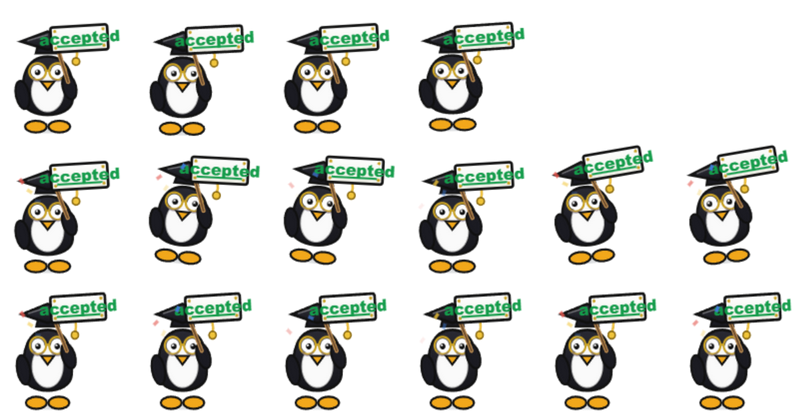
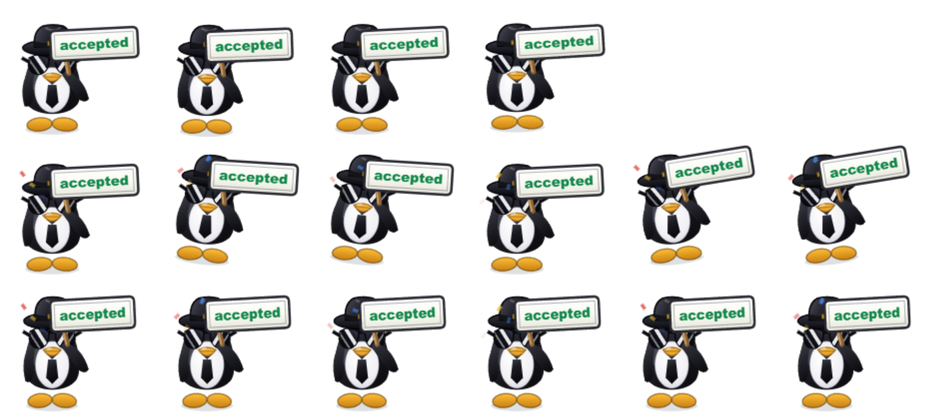
企鹅照参考图重画：黑礼帽 + 大墨镜 + 黑领带，伞换成 accepted 牌子
按用户给的参考图改：
- 博士帽换成黑色礼帽（帽檐 + 帽冠 + 帽带 + 金扣）
- 大墨镜（近黑镜片 + 两道强反光 + 镜腿）
- 白肚上一条黑领带
- 手里的伞换成大牌子

牌子文字一定在牌内：不再写死尺寸，改成先用 measureText 量出
「accepted」实际宽度，再反推牌子的宽高和内边距。

画风往写实靠：去掉粗黑描边，改用多段渐变做体积
（黑背、白肚、橙嘴橙脚、帽子都是渐变 + 高光），并加背部高光。

过程中一个教训：为了让宽内容不被探测格裁掉，我把探测格从 240 调到
300/360，结果探测窗口变大到 1800/2160px——超出屏幕被系统压缩，
所有形象的包围盒全量错。改回 240、改从「把牌子画紧凑」入手解决。

diff --git a/build/make-skins.js b/build/make-skins.js
@@ -16,7 +16,7 @@ const fs = require('fs');
 
 const root = path.join(__dirname, '..');
 const TAU = Math.PI * 2;
-const PROBE = 240;               // 探测格尺寸
+const PROBE = 240;
 const FH = 140;                  // 成品单帧高度（固定）
 const sleep = (ms) => new Promise(r => setTimeout(r, ms));
 app.on('window-all-closed', () => { });
@@ -1259,150 +1259,214 @@ function drawPsyduck(ctx, q, p, kind) {
 
 /* ============================================================ ⑩ 学术企鹅 */
 function drawPenguin(ctx, q, p, kind) {
-  const LINE = '#111111';
+  const INK = '#0E0E12';
   const s1 = Math.sin(p * TAU);
-  const cheer = kind === 'cheer' ? 1 : kind === 'dance' ? 0.6 : 0.25;
-  shadow(ctx, 50, 28);
+  const lift = q.arm * 12;
+  shadow(ctx, 54, 32);
 
-  /* 橙脚 */
+  /* ---- 橙脚（带渐变，别是纯色块） ---- */
   [-1, 1].forEach(function (sg) {
-    ctx.fillStyle = '#F2A81B';
-    ctx.beginPath(); ctx.ellipse(sg * 14, 48, 13, 7, 0, 0, TAU); ctx.fill();
-    ctx.lineWidth = 2.6; ctx.strokeStyle = LINE; ctx.stroke();
+    const fg = ctx.createLinearGradient(0, 42, 0, 56);
+    fg.addColorStop(0, '#F7B733'); fg.addColorStop(1, '#C97F12');
+    ctx.fillStyle = fg;
+    ctx.beginPath(); ctx.ellipse(sg * 15, 48, 15, 8, sg * 0.1, 0, TAU); ctx.fill();
+    ctx.lineWidth = 1.6; ctx.strokeStyle = 'rgba(90,55,5,.55)'; ctx.stroke();
   });
 
-  /* 身体：黑背 */
-  const bg = ctx.createLinearGradient(0, -36, 0, 42);
-  bg.addColorStop(0, '#2A2A33'); bg.addColorStop(1, '#141419');
+  /* ---- 身体：黑背。用多段渐变做出体积，而不是一块死黑 ---- */
+  const bg = ctx.createLinearGradient(-30, -40, 30, 46);
+  bg.addColorStop(0, '#4A4A57');
+  bg.addColorStop(0.28, '#26262F');
+  bg.addColorStop(0.62, '#141419');
+  bg.addColorStop(1, '#08080B');
   ctx.fillStyle = bg;
   ctx.beginPath();
-  ctx.moveTo(0, -36);
-  ctx.bezierCurveTo(26, -36, 32, -10, 30, 16);
-  ctx.bezierCurveTo(28, 40, -28, 40, -30, 16);
-  ctx.bezierCurveTo(-32, -10, -26, -36, 0, -36);
+  ctx.moveTo(0, -40);
+  ctx.bezierCurveTo(28, -40, 35, -12, 33, 16);
+  ctx.bezierCurveTo(31, 42, -31, 42, -33, 16);
+  ctx.bezierCurveTo(-35, -12, -28, -40, 0, -40);
   ctx.closePath(); ctx.fill();
-  ctx.lineWidth = 3; ctx.strokeStyle = LINE; ctx.stroke();
 
-  /* 白肚子 */
-  ctx.fillStyle = '#FAFAFA';
-  ctx.beginPath(); ctx.ellipse(0, 6, 20, 25, 0, 0, TAU); ctx.fill();
-  ctx.lineWidth = 2.2; ctx.strokeStyle = 'rgba(17,17,17,.35)'; ctx.stroke();
+  /* 背部高光 */
+  ctx.globalAlpha = 0.35;
+  ctx.fillStyle = '#8A8A9C';
+  ctx.beginPath(); ctx.ellipse(-17, -14, 7, 22, 0.18, 0, TAU); ctx.fill();
+  ctx.globalAlpha = 1;
 
-  /* 圆框眼镜（学术感） */
-  ctx.strokeStyle = '#C9A227'; ctx.lineWidth = 2.6;
-  ctx.beginPath(); ctx.arc(-12, -18, 10, 0, TAU); ctx.stroke();
-  ctx.beginPath(); ctx.arc(12, -18, 10, 0, TAU); ctx.stroke();
-  ctx.beginPath(); ctx.moveTo(-2, -19); ctx.lineTo(2, -19); ctx.stroke();
+  /* ---- 白肚子：边缘压暗，中间提亮 ---- */
+  const wg = ctx.createRadialGradient(-6, -4, 3, 0, 8, 34);
+  wg.addColorStop(0, '#FFFFFF');
+  wg.addColorStop(0.62, '#F2F2F6');
+  wg.addColorStop(1, '#C9C9D4');
+  ctx.fillStyle = wg;
+  ctx.beginPath(); ctx.ellipse(0, 7, 21, 27, 0, 0, TAU); ctx.fill();
+  ctx.lineWidth = 1.4; ctx.strokeStyle = 'rgba(60,60,75,.35)'; ctx.stroke();
 
-  /* 眼睛：熬夜学术眼 */
-  ctx.fillStyle = '#FFFFFF';
-  ctx.beginPath(); ctx.arc(-12, -18, 8, 0, TAU); ctx.fill();
-  ctx.beginPath(); ctx.arc(12, -18, 8, 0, TAU); ctx.fill();
-  ctx.fillStyle = '#111111';
-  ctx.beginPath(); ctx.arc(-12 + s1 * 1.4, -17, 3.4, 0, TAU); ctx.fill();
-  ctx.beginPath(); ctx.arc(12 + s1 * 1.4, -17, 3.4, 0, TAU); ctx.fill();
-  ctx.fillStyle = 'rgba(255,255,255,.9)';
-  ctx.beginPath(); ctx.arc(-13 + s1 * 1.4, -18.4, 1.2, 0, TAU); ctx.fill();
-  ctx.beginPath(); ctx.arc(11 + s1 * 1.4, -18.4, 1.2, 0, TAU); ctx.fill();
-  /* 黑眼圈（熬夜赶稿） */
-  ctx.strokeStyle = 'rgba(120,110,140,.55)'; ctx.lineWidth = 2.4;
-  ctx.beginPath(); ctx.arc(-12, -14, 7.4, 0.15 * Math.PI, 0.85 * Math.PI); ctx.stroke();
-  ctx.beginPath(); ctx.arc(12, -14, 7.4, 0.15 * Math.PI, 0.85 * Math.PI); ctx.stroke();
-
-  /* 橙嘴 */
-  ctx.fillStyle = '#F2A81B';
-  ctx.beginPath();
-  ctx.moveTo(-8, -6); ctx.lineTo(8, -6); ctx.lineTo(0, 4);
+  /* ---- 黑领带 ---- */
+  const tg = ctx.createLinearGradient(-6, -6, 6, 26);
+  tg.addColorStop(0, '#4A4A57'); tg.addColorStop(0.5, '#1A1A22'); tg.addColorStop(1, '#08080B');
+  ctx.fillStyle = tg;
+  ctx.beginPath();                       // 结
+  ctx.moveTo(0, -10);
+  ctx.lineTo(-6.5, -5); ctx.lineTo(0, 1); ctx.lineTo(6.5, -5);
   ctx.closePath(); ctx.fill();
-  ctx.lineWidth = 2.4; ctx.strokeStyle = LINE; ctx.stroke();
-
-  /* 博士帽 */
-  ctx.fillStyle = '#1B1B22';
-  ctx.beginPath();                       // 帽筒
-  ctx.moveTo(-14, -40); ctx.lineTo(14, -40);
-  ctx.lineTo(11, -52); ctx.lineTo(-11, -52);
+  ctx.beginPath();                       // 带
+  ctx.moveTo(-5, 1); ctx.lineTo(5, 1);
+  ctx.lineTo(7.5, 22); ctx.lineTo(0, 29); ctx.lineTo(-7.5, 22);
   ctx.closePath(); ctx.fill();
-  ctx.lineWidth = 2.8; ctx.strokeStyle = LINE; ctx.stroke();
-  ctx.beginPath();                       // 方板
-  ctx.moveTo(0, -66); ctx.lineTo(32, -54);
-  ctx.lineTo(0, -44); ctx.lineTo(-32, -54);
-  ctx.closePath();
-  const mg = ctx.createLinearGradient(0, -66, 0, -44);
-  mg.addColorStop(0, '#33333D'); mg.addColorStop(1, '#16161B');
-  ctx.fillStyle = mg; ctx.fill();
-  ctx.lineWidth = 3; ctx.strokeStyle = LINE; ctx.stroke();
-  ctx.strokeStyle = 'rgba(255,255,255,.35)'; ctx.lineWidth = 1.6;
-  ctx.beginPath(); ctx.moveTo(-24, -55); ctx.lineTo(0, -62); ctx.stroke();
-  /* 流苏 */
-  ctx.strokeStyle = '#E5B93C'; ctx.lineWidth = 3; ctx.lineCap = 'round';
+  ctx.lineWidth = 1.2; ctx.strokeStyle = 'rgba(0,0,0,.5)';
+  ctx.beginPath(); ctx.moveTo(-6, -5); ctx.lineTo(6, -5); ctx.stroke();
+
+  /* ---- 左翅：贴着身侧下压 ---- */
+  const lg = ctx.createLinearGradient(-38, -10, -22, 26);
+  lg.addColorStop(0, '#33333D'); lg.addColorStop(1, '#0B0B0F');
+  ctx.fillStyle = lg;
   ctx.beginPath();
-  ctx.moveTo(30, -54);
-  ctx.quadraticCurveTo(38 + s1 * 3, -46, 34 + s1 * 4, -32);
-  ctx.stroke();
-  ctx.fillStyle = '#F0C43A';
-  ctx.beginPath(); ctx.arc(34 + s1 * 4, -30, 4.4, 0, TAU); ctx.fill();
-  ctx.lineWidth = 2; ctx.strokeStyle = '#8A6A12'; ctx.stroke();
+  ctx.moveTo(-27, -18);
+  ctx.quadraticCurveTo(-40, 2, -33, 26);
+  ctx.quadraticCurveTo(-26, 30, -23, 18);
+  ctx.quadraticCurveTo(-24, -2, -20, -16);
+  ctx.closePath(); ctx.fill();
 
-  /* 左翅：垂着 */
-  ctx.fillStyle = '#1B1B22';
-  ctx.beginPath(); ctx.ellipse(-30, 10, 8, 17, -0.2, 0, TAU); ctx.fill();
-  ctx.lineWidth = 2.6; ctx.strokeStyle = LINE; ctx.stroke();
-
-  /* 右翅：举起牌子（越兴奋举越高） */
-  const lift = q.arm * 10;
-  ctx.save();
-  ctx.translate(26, 4 - lift);
-  ctx.rotate(-0.5 - q.arm * 0.15);
-  ctx.fillStyle = '#1B1B22';
-  ctx.beginPath(); ctx.ellipse(0, 0, 8, 15, 0.3, 0, TAU); ctx.fill();
-  ctx.lineWidth = 2.6; ctx.strokeStyle = LINE; ctx.stroke();
-  /* 牌杆 */
-  ctx.strokeStyle = '#B98B52'; ctx.lineWidth = 5; ctx.lineCap = 'round';
-  ctx.beginPath(); ctx.moveTo(2, -6); ctx.lineTo(12, -46); ctx.stroke();
-  ctx.lineWidth = 2; ctx.strokeStyle = '#6B4A2A';
-  ctx.beginPath(); ctx.moveTo(2, -6); ctx.lineTo(12, -46); ctx.stroke();
-  ctx.restore();
-
-  /* ---- 大牌子 ---- */
-  ctx.save();
-  ctx.translate(38, -56 - lift * 0.5);
-  ctx.rotate(-0.06);
-  const BW = 34, BH = 15;                 // 半宽 / 半高
+  /* ---- 嘴：橙色，上下两片 ---- */
+  const bkg = ctx.createLinearGradient(0, -16, 0, 4);
+  bkg.addColorStop(0, '#FBC24A'); bkg.addColorStop(1, '#D98A12');
+  ctx.fillStyle = bkg;
   ctx.beginPath();
-  ctx.moveTo(-BW + 3, -BH);
-  ctx.lineTo(BW - 3, -BH); ctx.quadraticCurveTo(BW, -BH, BW, -BH + 3);
-  ctx.lineTo(BW, BH - 3); ctx.quadraticCurveTo(BW, BH, BW - 3, BH);
-  ctx.lineTo(-BW + 3, BH); ctx.quadraticCurveTo(-BW, BH, -BW, BH - 3);
-  ctx.lineTo(-BW, -BH + 3); ctx.quadraticCurveTo(-BW, -BH, -BW + 3, -BH);
-  ctx.closePath();
-  const sg2 = ctx.createLinearGradient(0, -BH, 0, BH);
-  sg2.addColorStop(0, '#FFFFFF'); sg2.addColorStop(1, '#EFEFE6');
-  ctx.fillStyle = sg2; ctx.fill();
-  ctx.lineWidth = 3.2; ctx.strokeStyle = LINE; ctx.stroke();
-  /* 牌子四角的小图钉 */
-  ctx.fillStyle = '#C9A227';
-  [[-BW + 5, -BH + 5], [BW - 5, -BH + 5], [-BW + 5, BH - 5], [BW - 5, BH - 5]].forEach(function (k) {
-    ctx.beginPath(); ctx.arc(k[0], k[1], 1.8, 0, TAU); ctx.fill();
+  ctx.moveTo(-11, -10);
+  ctx.quadraticCurveTo(0, -16, 11, -10);
+  ctx.quadraticCurveTo(0, 4, -11, -10);
+  ctx.closePath(); ctx.fill();
+  ctx.lineWidth = 1.6; ctx.strokeStyle = 'rgba(120,70,5,.6)'; ctx.stroke();
+  ctx.beginPath(); ctx.moveTo(-9, -8.5); ctx.lineTo(9, -8.5);
+  ctx.lineWidth = 1.2; ctx.strokeStyle = 'rgba(120,70,5,.5)'; ctx.stroke();
+  ctx.fillStyle = 'rgba(255,255,255,.45)';
+  ctx.beginPath(); ctx.ellipse(-4, -11.5, 3.4, 1.4, -0.2, 0, TAU); ctx.fill();
+
+  /* ---- 大墨镜：镜片近黑，靠两道强反光撑住 ---- */
+  [-1, 1].forEach(function (sg) {
+    ctx.beginPath();
+    ctx.moveTo(sg * 27, -31);
+    ctx.quadraticCurveTo(sg * 14, -38, sg * 4, -31);
+    ctx.quadraticCurveTo(sg * 3, -16, sg * 14, -12);
+    ctx.quadraticCurveTo(sg * 26, -11, sg * 28, -22);
+    ctx.closePath();
+    const lg2 = ctx.createLinearGradient(sg * 4, -36, sg * 28, -12);
+    lg2.addColorStop(0, '#4E4E5C'); lg2.addColorStop(0.4, '#141420'); lg2.addColorStop(1, '#05050A');
+    ctx.fillStyle = lg2; ctx.fill();
+    ctx.lineWidth = 2.2; ctx.strokeStyle = '#0A0A0F'; ctx.stroke();
+    ctx.save(); ctx.clip();
+    ctx.strokeStyle = 'rgba(255,255,255,.92)'; ctx.lineWidth = 4.4; ctx.lineCap = 'round';
+    ctx.beginPath(); ctx.moveTo(sg * 5, -12); ctx.lineTo(sg * 22, -37); ctx.stroke();
+    ctx.strokeStyle = 'rgba(255,255,255,.5)'; ctx.lineWidth = 2.2;
+    ctx.beginPath(); ctx.moveTo(sg * 14, -10); ctx.lineTo(sg * 28, -30); ctx.stroke();
+    ctx.restore();
   });
-  /* accepted 字样 */
-  ctx.fillStyle = '#159C4B';
-  ctx.font = 'bold 19px "Arial Black","Segoe UI",Arial,sans-serif';
-  ctx.textAlign = 'center'; ctx.textBaseline = 'middle';
-  ctx.fillText('accepted', 0, 0.5);
-  /* 底下一道绿色下划线，像批注 */
-  ctx.strokeStyle = '#159C4B'; ctx.lineWidth = 2.4; ctx.lineCap = 'round';
-  ctx.beginPath(); ctx.moveTo(-26, 8.5); ctx.lineTo(26, 8.5); ctx.stroke();
+  /* 鼻梁 + 镜腿 */
+  ctx.fillStyle = '#0A0A0F';
+  ctx.beginPath(); ctx.rect(-5, -32, 10, 3.6); ctx.fill();
+  ctx.strokeStyle = '#0A0A0F'; ctx.lineWidth = 4;
+  ctx.beginPath(); ctx.moveTo(-27, -26); ctx.lineTo(-36, -31); ctx.stroke();
+  ctx.beginPath(); ctx.moveTo(27, -26); ctx.lineTo(36, -31); ctx.stroke();
+
+  /* ---- 黑礼帽：帽檐 + 帽冠 + 帽带 ---- */
+  ctx.save();
+  ctx.translate(1 + s1 * 0.6, -1);
+  /* 帽檐 */
+  ctx.beginPath();
+  ctx.ellipse(0, -42, 36, 9.5, 0, 0, TAU);
+  const brg = ctx.createLinearGradient(0, -52, 0, -33);
+  brg.addColorStop(0, '#3E3E4A'); brg.addColorStop(1, '#0A0A0F');
+  ctx.fillStyle = brg; ctx.fill();
+  ctx.lineWidth = 1.8; ctx.strokeStyle = '#05050A'; ctx.stroke();
+  /* 帽冠 */
+  ctx.beginPath();
+  ctx.moveTo(-22, -43);
+  ctx.quadraticCurveTo(-24, -62, -12, -68);
+  ctx.quadraticCurveTo(0, -71, 12, -68);
+  ctx.quadraticCurveTo(24, -62, 22, -43);
+  ctx.closePath();
+  const crg = ctx.createLinearGradient(-22, -70, 22, -43);
+  crg.addColorStop(0, '#4E4E5C'); crg.addColorStop(0.45, '#22222B'); crg.addColorStop(1, '#0A0A0F');
+  ctx.fillStyle = crg; ctx.fill();
+  ctx.lineWidth = 1.8; ctx.strokeStyle = '#05050A'; ctx.stroke();
+  /* 帽冠上的凹痕 */
+  ctx.strokeStyle = 'rgba(255,255,255,.22)'; ctx.lineWidth = 2.6;
+  ctx.beginPath(); ctx.moveTo(-9, -66); ctx.quadraticCurveTo(0, -60, 9, -66); ctx.stroke();
+  /* 帽带 */
+  ctx.fillStyle = '#141419';
+  ctx.beginPath();
+  ctx.moveTo(-22.5, -50);
+  ctx.quadraticCurveTo(0, -44, 22.5, -50);
+  ctx.lineTo(22.5, -44);
+  ctx.quadraticCurveTo(0, -38, -22.5, -44);
+  ctx.closePath(); ctx.fill();
+  ctx.fillStyle = '#C9A227';
+  ctx.beginPath(); ctx.rect(-6, -49.5, 12, 4.6); ctx.fill();
+  ctx.lineWidth = 1; ctx.strokeStyle = '#8A6A12'; ctx.stroke();
   ctx.restore();
 
-  /* 欢呼时头顶撒几片纸屑 */
+  /* ---- 右翅：举牌子 ---- */
+  ctx.save();
+  ctx.translate(25, 0 - lift * 0.5);
+  ctx.rotate(-0.42 - q.arm * 0.12);
+  const rg = ctx.createLinearGradient(0, -14, 0, 26);
+  rg.addColorStop(0, '#33333D'); rg.addColorStop(1, '#0B0B0F');
+  ctx.fillStyle = rg;
+  ctx.beginPath();
+  ctx.moveTo(-3, -16);
+  ctx.quadraticCurveTo(14, -2, 8, 26);
+  ctx.quadraticCurveTo(0, 30, -4, 18);
+  ctx.quadraticCurveTo(-6, 0, -8, -14);
+  ctx.closePath(); ctx.fill();
+  /* 牌杆 */
+  ctx.strokeStyle = '#8A6236'; ctx.lineWidth = 6; ctx.lineCap = 'round';
+  ctx.beginPath(); ctx.moveTo(0, -12); ctx.lineTo(12, -52); ctx.stroke();
+  ctx.strokeStyle = '#C79A5E'; ctx.lineWidth = 2.4;
+  ctx.beginPath(); ctx.moveTo(-1, -13); ctx.lineTo(11, -53); ctx.stroke();
+  ctx.restore();
+
+  /* ---- 大牌子：尺寸由文字实测宽度反推，保证字在牌里 ---- */
+  const TEXT = 'accepted';
+  const FS = 16;
+  ctx.font = '700 ' + FS + 'px "Arial Black","Segoe UI",Arial,sans-serif';
+  const tw = ctx.measureText(TEXT).width;
+  const halfW = tw / 2 + 11;              // 左右内边距收窄，避免整体过宽
+  const halfH = FS * 0.62 + 8;
+
+  ctx.save();
+  ctx.translate(halfW - 2, -46 - lift * 0.4);   // 牌子贴着企鹅右上，不伸太远
+  ctx.rotate(-0.05);
+  /* 牌面 */
+  ctx.beginPath();
+  const R = 6, W = halfW, H = halfH;
+  ctx.moveTo(-W + R, -H);
+  ctx.lineTo(W - R, -H); ctx.quadraticCurveTo(W, -H, W, -H + R);
+  ctx.lineTo(W, H - R); ctx.quadraticCurveTo(W, H, W - R, H);
+  ctx.lineTo(-W + R, H); ctx.quadraticCurveTo(-W, H, -W, H - R);
+  ctx.lineTo(-W, -H + R); ctx.quadraticCurveTo(-W, -H, -W + R, -H);
+  ctx.closePath();
+  const sg3 = ctx.createLinearGradient(0, -H, 0, H);
+  sg3.addColorStop(0, '#FFFFFF'); sg3.addColorStop(0.55, '#FBFBF4'); sg3.addColorStop(1, '#E4E4DA');
+  ctx.fillStyle = sg3; ctx.fill();
+  ctx.lineWidth = 3; ctx.strokeStyle = '#2A2A33'; ctx.stroke();
+  /* 内侧一道细边，像打印的边框 */
+  ctx.lineWidth = 1.2; ctx.strokeStyle = 'rgba(42,42,51,.35)';
+  ctx.beginPath(); ctx.rect(-W + 5, -H + 5, W * 2 - 10, H * 2 - 10); ctx.stroke();
+  /* 文字：居中，一定在牌内 */
+  ctx.fillStyle = '#12874A';
+  ctx.textAlign = 'center'; ctx.textBaseline = 'middle';
+  ctx.fillText(TEXT, 0, 1);
+  ctx.restore();
+
+  /* 跳舞/欢呼：撒一点纸屑 */
   if (kind !== 'idle') {
-    const rnd = [0.15, 0.45, 0.75];
-    rnd.forEach(function (t0, i) {
+    [0.15, 0.45, 0.75].forEach(function (t0, i) {
       const t = (p * 1.5 + t0) % 1;
       ctx.globalAlpha = 1 - t;
       ctx.fillStyle = ['#E2564E', '#F0C43A', '#3E7BD6'][i];
       ctx.save();
-      ctx.translate(-30 + i * 12 - t * 8, -60 + t * 40);
+      ctx.translate(-34 + i * 14 - t * 8, -66 + t * 44);
       ctx.rotate(t * 6 + i);
       ctx.fillRect(-3.4, -2, 6.8, 4);
       ctx.restore();
